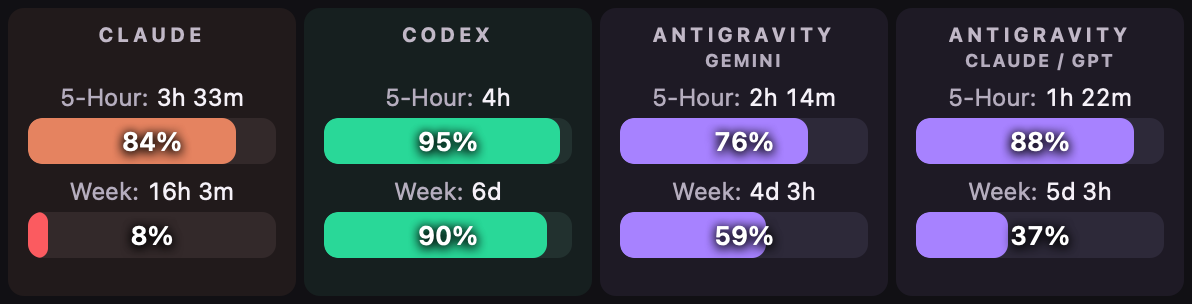
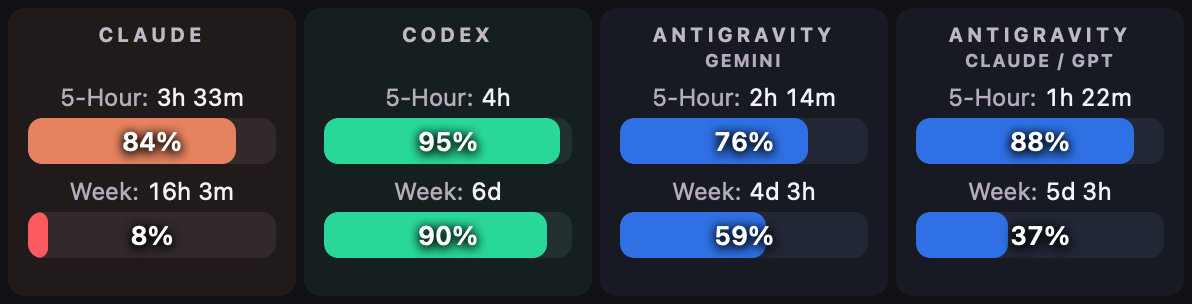
update color

diff --git a/Integrations/FloatingWidget/usage.ts b/Integrations/FloatingWidget/usage.ts
@@ -24,7 +24,7 @@ interface CardWindows {
 const providerColors: Readonly<Record<string, string>> = {
   claude: "#e58360",
   codex: "#29d898",
-  antigravity: "#a782ff",
+  antigravity: "#2f71e4",
 };
 
 function object(value: unknown): Record<string, unknown> | undefined {
